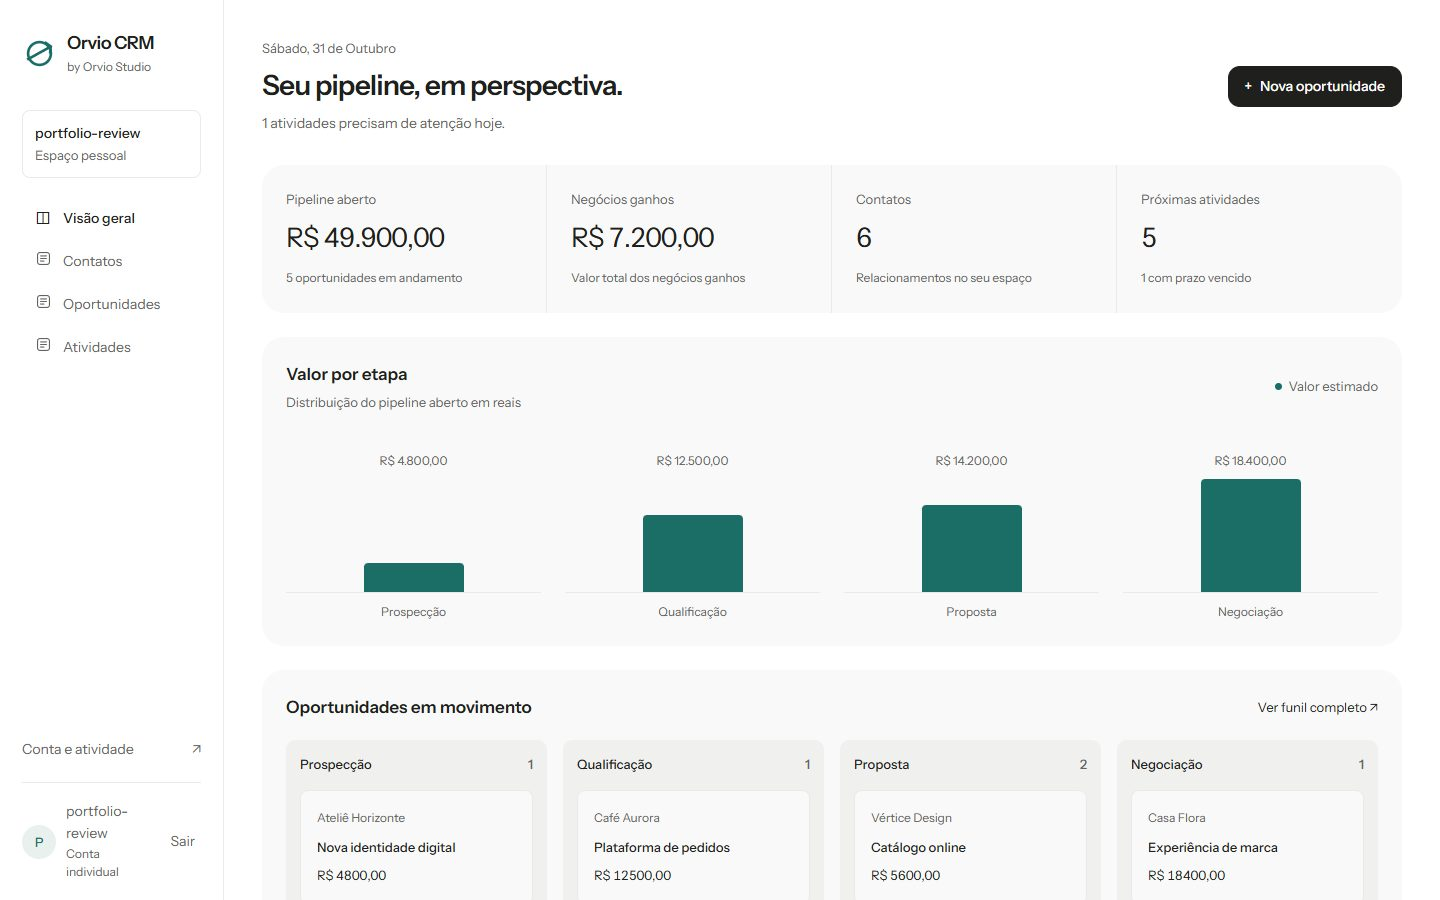
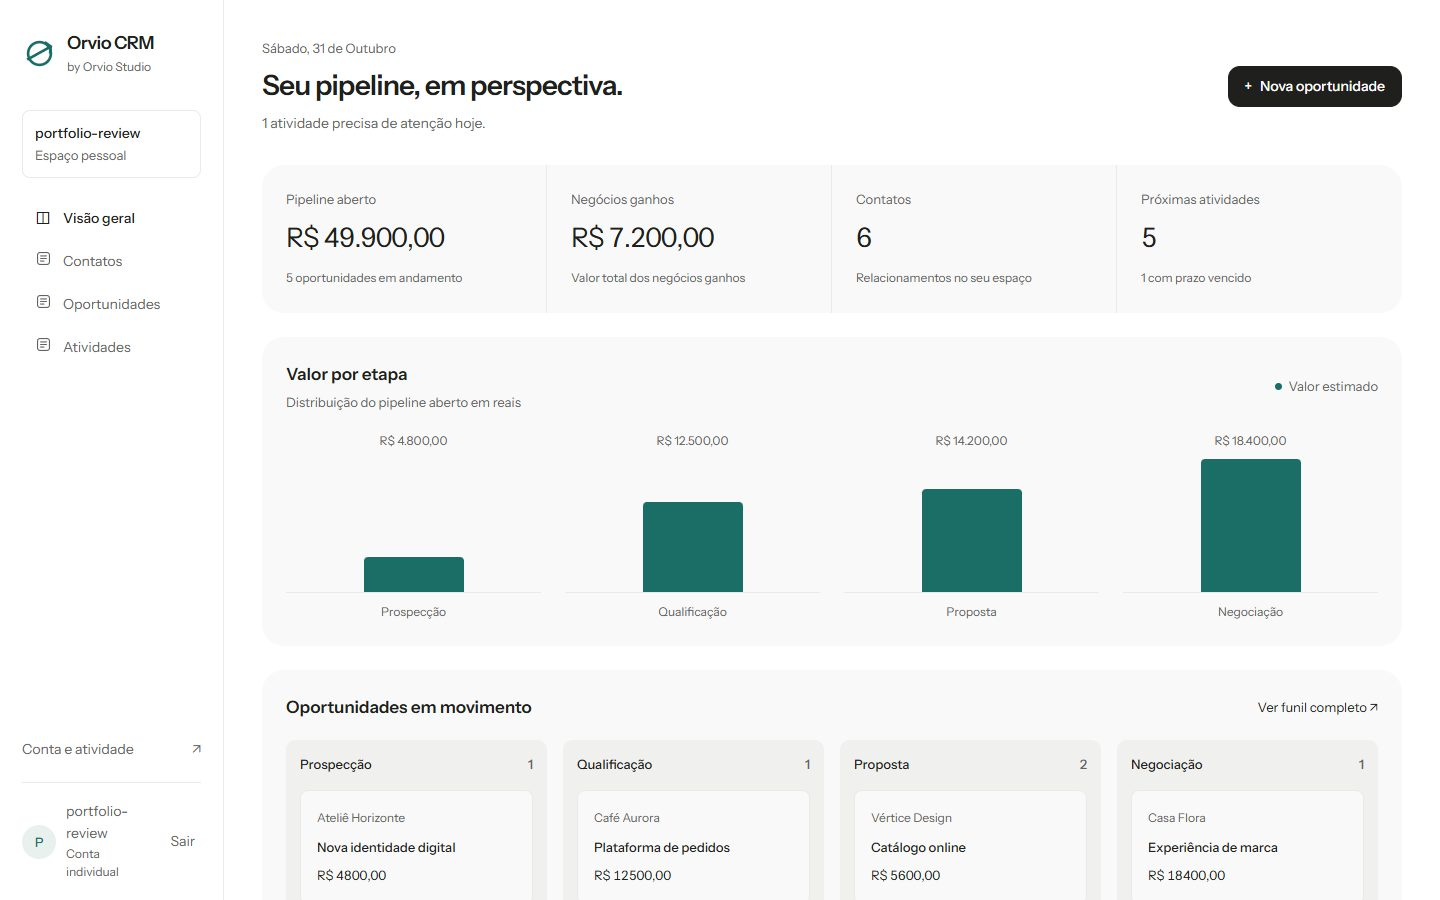
Harden administrative ownership and production defaults; document validation

diff --git a/workspace/admin.py b/workspace/admin.py
@@ -1,7 +1,38 @@
 from django.contrib import admin
 from .domain import REGISTRY
+from .forms import form_for
 from .models import Event
+
+
+class OwnedAdmin(admin.ModelAdmin):
+    """Assign ownership on creation and scope staff views and relation choices."""
+    def get_queryset(self, request):
+        queryset = super().get_queryset(request)
+        return queryset if request.user.is_superuser else queryset.filter(owner=request.user)
+
+    def get_form(self, request, obj=None, **kwargs):
+        owner = obj.owner if obj else request.user
+        base = form_for(self.model)
+
+        class AdminForm(base):
+            def __init__(self, *args, **form_kwargs):
+                super().__init__(*args, user=owner, **form_kwargs)
+
+        return AdminForm
+
+
+@admin.register(Event)
+class EventAdmin(OwnedAdmin):
+    list_display = ('description', 'owner', 'created_at')
+    readonly_fields = ('description', 'owner', 'created_at')
+
+    def has_add_permission(self, request):
+        return False
+
+    def has_change_permission(self, request, obj=None):
+        return False
+
+
 for item in REGISTRY.values():
-    admin.site.register(item['model'])
-admin.site.register(Event)
+    admin.site.register(item['model'], OwnedAdmin)
 admin.site.site_header = 'Orvio Studio · Administração'

diff --git a/workspace/tests.py b/workspace/tests.py
@@ -138,6 +138,20 @@ class WorkspaceTests:
             self.client.post('/login/',{'username':'absent','password':'wrong'})
         self.assertEqual(self.client.post('/login/',{'username':'absent','password':'wrong'}).status_code,429)
 
+    def test_admin_forms_have_owner_and_scoped_relations(self):
+        from django.contrib import admin
+        from django.test import RequestFactory
+        superuser = get_user_model().objects.create_superuser('admin-review', password='Admin-test-password-26', email='admin@example.com')
+        request = RequestFactory().get('/admin/')
+        request.user = superuser
+        for config in REGISTRY.values():
+            model_admin = admin.site._registry[config['model']]
+            form = model_admin.get_form(request)()
+            self.assertEqual(form.instance.owner, superuser)
+            for field in form.fields.values():
+                if hasattr(field, 'queryset') and field.queryset is not None:
+                    self.assertFalse(field.queryset.exclude(owner=superuser).exists())
+
     def test_health_checks_database(self):
         self.assertEqual(self.client.get('/health/').json(),{'status':'ok'})
 

diff --git a/docs/validation.md b/docs/validation.md
@@ -3,7 +3,7 @@
 ## Evidência local
 
 - Python 3.12.16, Django 5.2.18, Windows 11 x64.
-- 24 testes automatizados aprovados em SQLite: autenticação, CSRF, isolamento entre contas, formulários, exportação, cálculos e regras do domínio.
+- 25 testes automatizados aprovados em SQLite: autenticação, CSRF, isolamento entre contas, formulários, exportação, cálculos e regras do domínio.
 - Migrações aplicadas e verificação de alterações de modelo sem pendências.
 - Interface renderizada pelo Django e inspecionada em Chromium a 1440, 768 e 390 px; capturas em `screenshots/`.
 - Fluxo real no navegador: login e cadastro de oportunidade (CRM); rejeição de conflito e salvamento de horário livre (Agenda); lançamento com centavos (Finance). Navegação recolhível verificada.
@@ -11,7 +11,7 @@
 
 ## Cobertura e limites
 
-O workflow em GitHub Actions executa a suíte em SQLite e PostgreSQL 17. O ambiente local estava com o Docker aguardando reinício do Windows; o teste de contêiner local não foi executado. Conferir a execução do workflow do commit atual para evidência de PostgreSQL e ambiente Linux.
+O workflow em GitHub Actions executa a suíte em SQLite e PostgreSQL 17. O ambiente local estava com o Docker aguardando reinício do Windows; o teste de contêiner local não foi executado. A execução inicial do workflow passou em SQLite e PostgreSQL 17 no Ubuntu. Consulte o badge do README para o resultado do commit atual.
 
 O inspetor visual não encontrou falhas bloqueantes após os ajustes. Avisos estéticos de espaço de gráfico e alturas diferentes de painéis foram revisados: os painéis têm quantidades reais diferentes e mantêm sua altura pelo conteúdo, sem linhas fictícias para preencher.
 

diff --git a/README.md b/README.md
@@ -1,5 +1,7 @@
 # Orvio CRM
 
+[![Quality](https://github.com/orviostudio21/orvio-crm/actions/workflows/ci.yml/badge.svg)](https://github.com/orviostudio21/orvio-crm/actions/workflows/ci.yml)
+
 Cada conversa, um próximo passo. Relacionamentos, oportunidades e atividades em um único espaço de trabalho.
 
 Uma aplicação completa da [Orvio Studio](https://github.com/orviostudio21), com backend Django, banco relacional, autenticação e interface responsiva em português.
